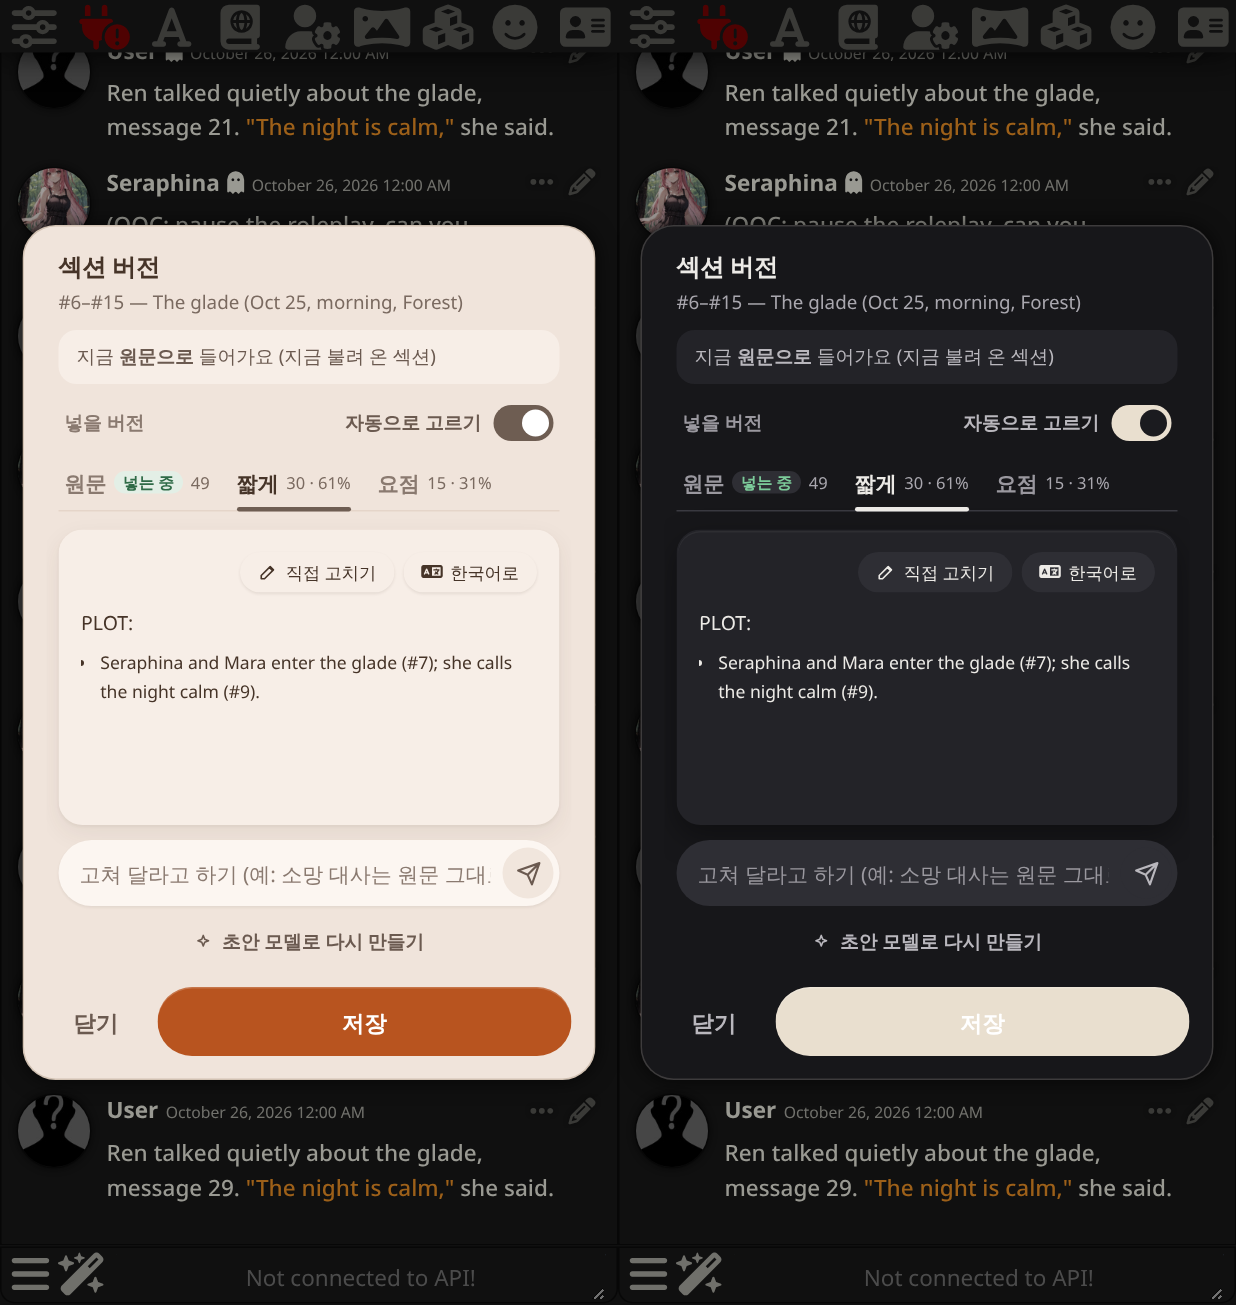
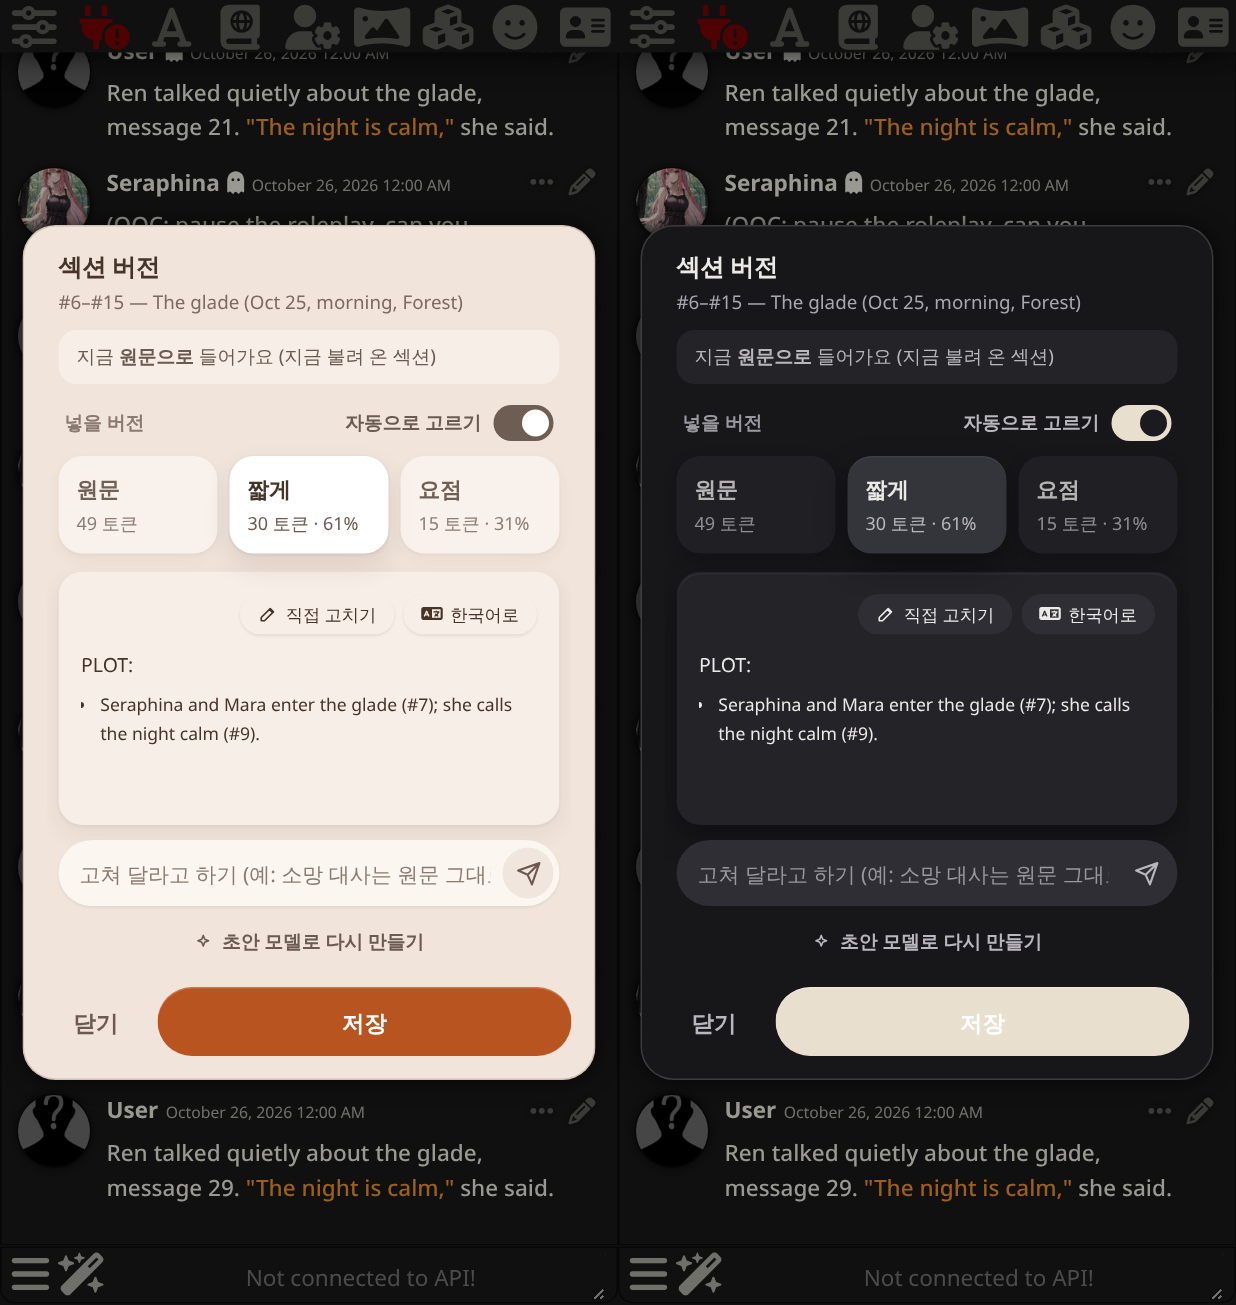
섹션 버전 창: 떠 있는 타일(C), 넣는 중 표시 빼고 토큰 글자 다시 (3.169.29)
Claude-Session: https://claude.ai/code/session_01TBUyc5NesEMBcPKHWzpL6W

diff --git a/style.css b/style.css
@@ -7976,15 +7976,13 @@ body.na_darkui .na_ly3_in { background: #2E2E34 !important; color: #7CCB9A !impo
 body:not(.na_darkui) .na_ly3 > .na_ly_ask { background: #FCF6F1 !important; box-shadow: 0 1px 2px rgba(70, 52, 40, 0.08); }
 .na_ly3 > .na_ly3_foot { justify-content: center; margin-top: 8px; }
 body:is(.na_darkui, :not(.na_darkui)) .na_ly3 > .na_ly3_foot button.na_ly3_tool:not(#na_x) { background: transparent !important; box-shadow: none !important; color: var(--na-mute) !important; font-weight: 600; }
-/* 섹션 버전 (3.169.28): the versions as underline tabs (C), the send button quiet grey, the 자동으로 고르기 switch in charcoal brown */
-.na_ly3_cards.na_ly_tabs { flex-direction: row !important; gap: 18px !important; padding: 0 4px !important; border-radius: 0 !important; overflow: visible !important; background: transparent !important; box-shadow: none !important; border-bottom: 1px solid var(--na-line) !important; }
-body:is(.na_darkui, :not(.na_darkui)) .na_layers .na_ly3_cards button.na_ly3_card:not(#na_x) { position: relative; width: auto !important; flex: none; gap: 5px !important; padding: 8px 0 !important; background: transparent !important; border-top: 0 !important; }
-body:is(.na_darkui, :not(.na_darkui)) .na_layers .na_ly3_cards button.na_ly3_card.on:not(#na_x) { background: transparent !important; }
-.na_layers .na_ly3_cards button.na_ly3_card b { color: var(--na-dim); font-weight: 600; }
-.na_layers .na_ly3_cards button.na_ly3_card.on b { color: var(--na-ink); font-weight: 700; }
-.na_layers .na_ly3_cards button.na_ly3_card.on::after { content: ""; position: absolute; left: 0; right: 0; bottom: -1px; height: 2.5px; border-radius: 3px; background: var(--na-fill); }
-body.na_darkui .na_layers .na_ly3_cards button.na_ly3_card.on::after { background: #ECEAE6; }
-.na_layers .na_ly3_cards button.na_ly3_card small { margin-left: 0 !important; font-size: 11px !important; }
-.na_ly3_in { padding: 0 6px !important; font-size: 10.5px !important; }
+/* 섹션 버전 (3.169.29): the versions as three floating tiles (C) — the picked one white and lifted, no 넣는 중 mark; the send button quiet grey, the 자동으로 고르기 switch in charcoal brown */
+.na_ly3_cards.na_ly_tabs { display: grid !important; grid-template-columns: repeat(3, 1fr); gap: 8px !important; padding: 0 !important; border-radius: 0 !important; overflow: visible !important; background: transparent !important; box-shadow: none !important; }
+body:is(.na_darkui, :not(.na_darkui)) .na_layers .na_ly3_cards button.na_ly3_card:not(#na_x) { flex-direction: column !important; align-items: flex-start !important; gap: 4px !important; min-width: 0; width: auto !important; padding: 11px 12px !important; border: 0 !important; border-radius: 16px !important; background: #FCF6F1 !important; box-shadow: 0 1px 2px rgba(70, 52, 40, 0.05), 0 4px 12px rgba(70, 52, 40, 0.06) !important; opacity: 0.75; text-align: left; }
+body:not(.na_darkui) .na_layers .na_ly3_cards button.na_ly3_card.on:not(#na_x) { opacity: 1; background: #fff !important; box-shadow: 0 1px 2px rgba(70, 52, 40, 0.08), 0 8px 18px rgba(70, 52, 40, 0.12) !important; }
+body.na_darkui .na_layers .na_ly3_cards button.na_ly3_card:not(#na_x) { background: #232328 !important; box-shadow: 0 4px 12px rgba(0, 0, 0, 0.25) !important; }
+body.na_darkui .na_layers .na_ly3_cards button.na_ly3_card.on:not(#na_x) { opacity: 1; background: #34343B !important; box-shadow: inset 0 1px 0 rgba(255, 255, 255, 0.05), 0 8px 20px rgba(0, 0, 0, 0.4) !important; }
+.na_layers .na_ly3_cards button.na_ly3_card b { font-size: 14.5px; font-weight: 700; color: var(--na-ink); }
+.na_layers .na_ly3_cards button.na_ly3_card small { margin-left: 0 !important; font-size: 12px !important; color: var(--na-mute); white-space: normal; word-break: keep-all; }
 body:is(.na_darkui, :not(.na_darkui)) .na_ly3 .na_ly_askgo:not(#na_x) { background: var(--na-card2) !important; color: var(--na-mute) !important; box-shadow: none !important; }
 body:not(.na_darkui) .na_ly3 input.na_toggle:checked + .na_tgl_ui { background: #6E5D52; }

diff --git a/src/fade.js b/src/fade.js
@@ -270,7 +270,7 @@ export async function openLayers(s) {
         <div class="na_v2_note na_ly_note">${noteHtml(plan, use)}</div>
         ${stale ? '<div class="na_xr_warn slim">' + WARN_SVG + '<div>버전을 만든 뒤에 원문이 바뀌었어요. 저장할 때까지 원문으로 들어가요.</div></div>' : ''}
         <div class="na_ly3_lbl"><span>넣을 버전</span><label class="na_ly3_auto">자동으로 고르기<input type="checkbox" class="na_toggle na_ly3_autoon"${forced() === 'auto' ? ' checked' : ''}></label></div>
-        <div class="na_ly3_cards na_ly_tabs">${[['long', '원문'], ['short', '짧게'], ['line', '요점']].map(([t, l]) => `<button type="button" class="na_ly3_card" data-t="${t}"><b>${l}</b><span class="na_ly3_in">넣는 중</span><small class="na_ly_tok_${t}"></small></button>`).join('')}</div>
+        <div class="na_ly3_cards na_ly_tabs">${[['long', '원문'], ['short', '짧게'], ['line', '요점']].map(([t, l]) => `<button type="button" class="na_ly3_card" data-t="${t}"><b>${l}</b><small class="na_ly_tok_${t}"></small></button>`).join('')}</div>
         <div class="na_v2_card na_ly3_body">
           <div class="na_ly_tools">
             <small class="na_ly_trinfo"></small>
@@ -312,9 +312,9 @@ export async function openLayers(s) {
     };
     const tok = async () => {
         const [a, b, d] = await Promise.all([countTokens(full), countTokens($root.find('.na_ly_short').val()), countTokens($root.find('.na_ly_line').val())]);
-        $root.find('.na_ly_tok_long').text(`${fmt(a)}`);
-        $root.find('.na_ly_tok_short').text(b ? `${fmt(b)} · ${Math.round(b / Math.max(1, a) * 100)}%` : '없음');
-        $root.find('.na_ly_tok_line').text(d ? `${fmt(d)} · ${Math.round(d / Math.max(1, a) * 100)}%` : '없음');
+        $root.find('.na_ly_tok_long').text(`${fmt(a)} 토큰`);
+        $root.find('.na_ly_tok_short').text(b ? `${fmt(b)} 토큰 · ${Math.round(b / Math.max(1, a) * 100)}%` : '없음');
+        $root.find('.na_ly_tok_line').text(d ? `${fmt(d)} 토큰 · ${Math.round(d / Math.max(1, a) * 100)}%` : '없음');
         show();
     };
     show(); tok();

diff --git a/src/core.js b/src/core.js
@@ -12,7 +12,7 @@ import { parseSections } from './sections.js';
 
 export const MODULE = 'narrative_archive';
 export const PROMPT_KEY = 'narrative_archive_injection';
-export const VERSION = '3.169.28';
+export const VERSION = '3.169.29';
 export const SNAPSHOT_MAX = 5;
 export const SNAPSHOT_MAX_CHARS = 2_000_000;
 
